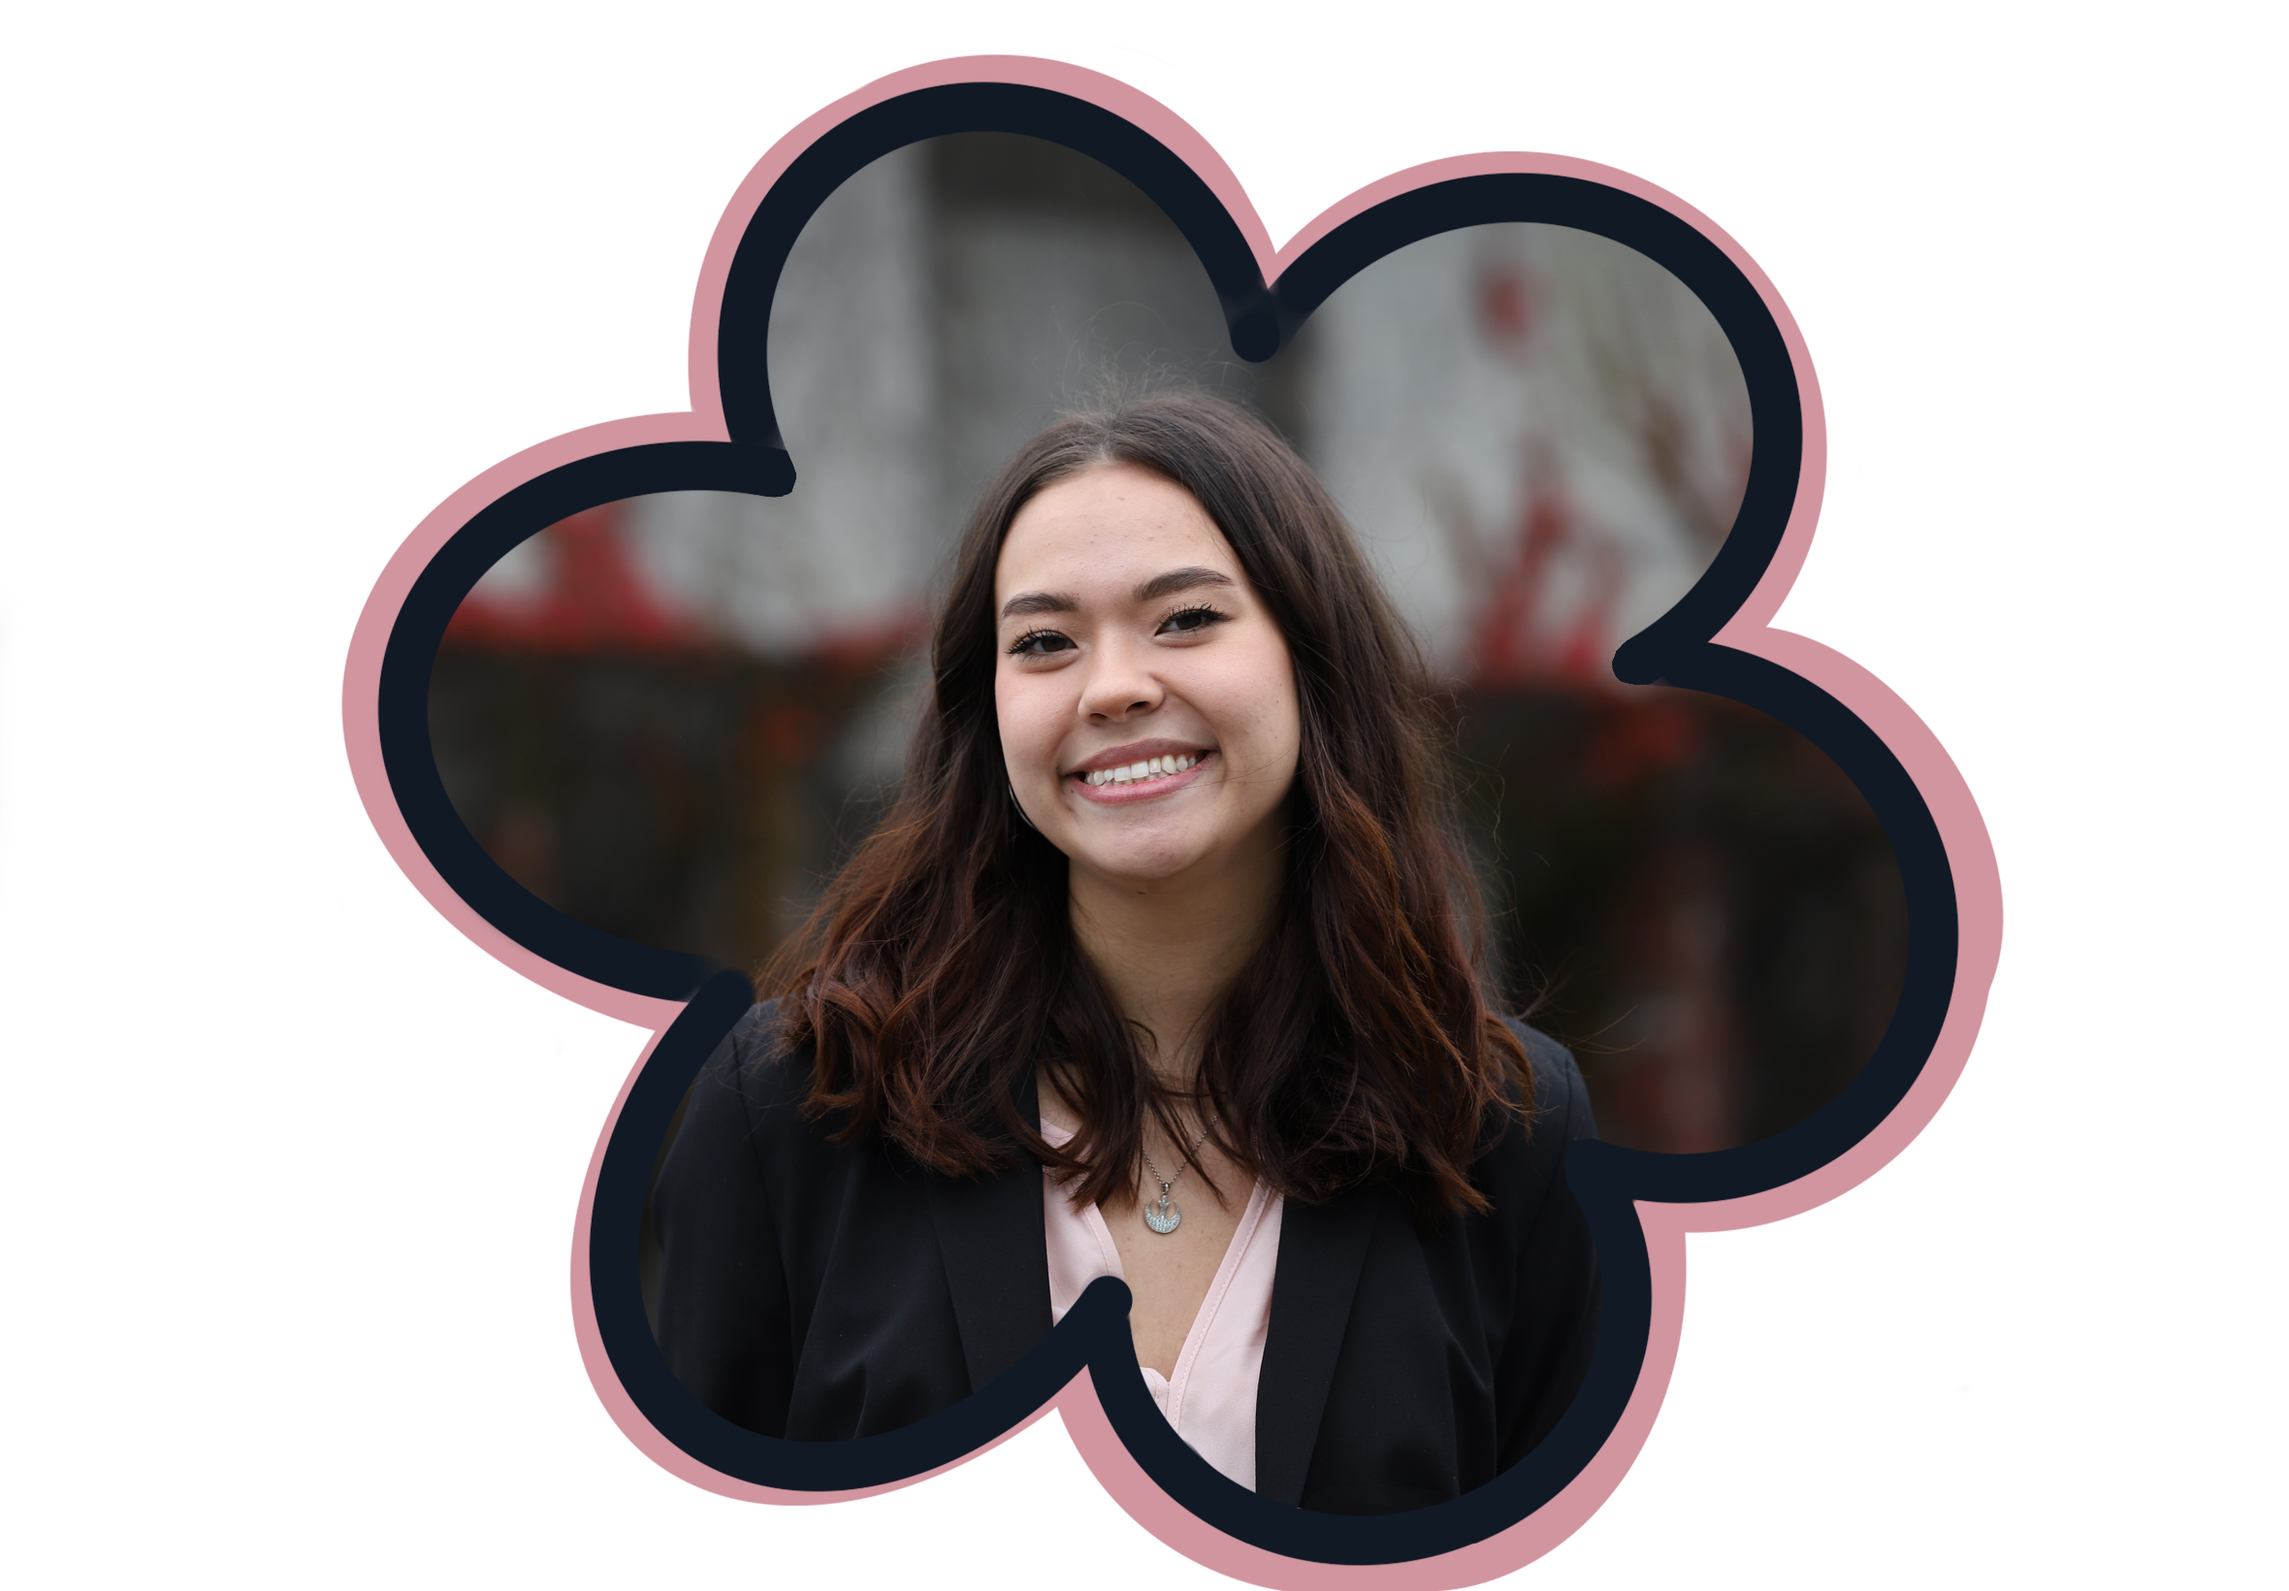
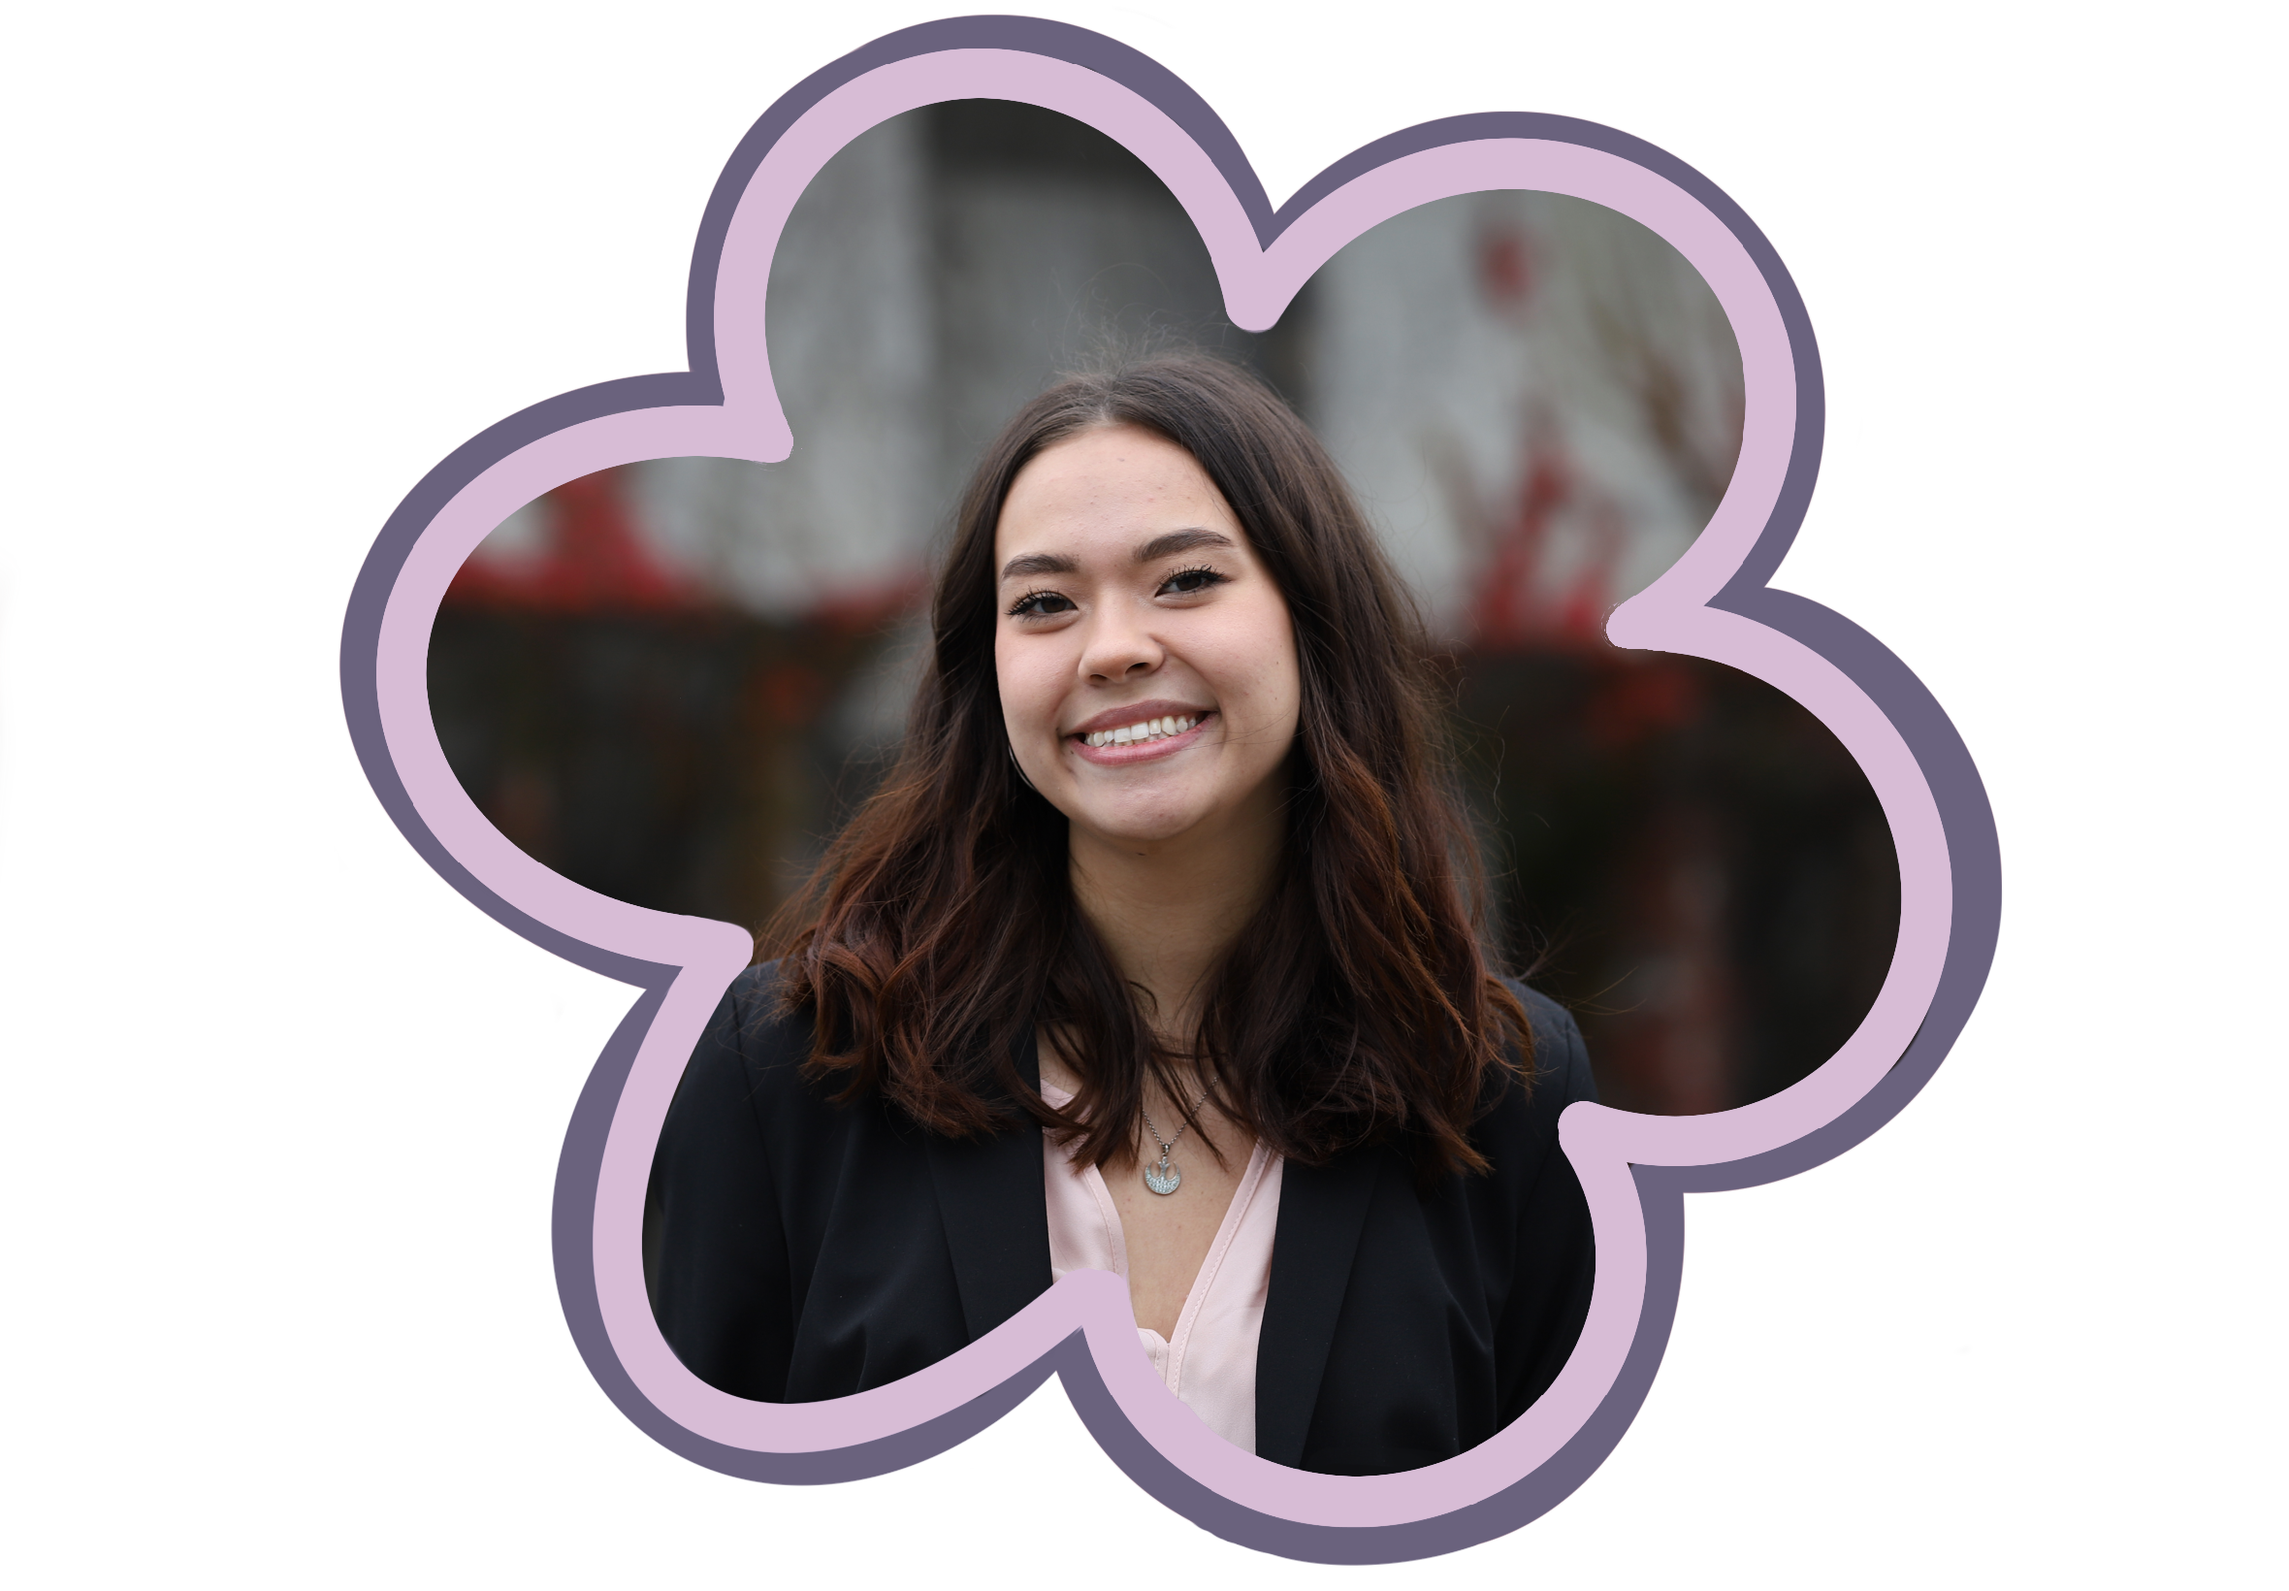
color and layout changes

Changed region(s): [[0.1237, 0.0, 0.897, 1.0]]

diff --git a/index.html b/index.html
@@ -44,7 +44,7 @@
       <div class="section__text">
         <p class="section__text__p1">Hiya, I'm</p>
         <h1 class="title">Sabrina Bailey</h1>
-        <p class="section__text__p2">CS Student and Cybersecurity enthusiast <br /> Throw kindness around like confetti!</p>
+        <p class="section__text__p2">CS student and Cybersecurity enthusiast <br /> Throw kindness around like confetti!<br />~</p>
         <div class="btn-container">
           <!-- <button
             class="btn btn-color-2"
@@ -106,10 +106,10 @@
           </div>
           <div class="text-container">
             <p>
-              Hello, I'm Sabrina Bailey, a 4th-year student at Simon Fraser University, majoring in Computing Science with a concentration in Artificial Intelligence. 
+              Hello, I'm Sabrina Bailey, a 4th-year student at Simon Fraser University, majoring in Computing Science with a concentration in Artificial Intelligence and Computer Vision. 
               My academic journey is driven by a passion for blending technology and teaching to innovate solutions that enhance the quality of everyday life. 
               By focusing on accessible and affordable technological advancements, I aim to make significant contributions that will benefit society.  
-              PLEASE NOTE THIS WEBSITE IS A WORK IN PROGRESS.
+              <br /> PLEASE NOTE THIS WEBSITE IS A WORK IN PROGRESS.
             </p>
           </div>
         </div>
@@ -147,18 +147,7 @@
                   class="icon"
                 />
                 <div>
-                  <h3>C++</h3>
-                  <p>Experienced</p>
-                </div>
-              </article>
-              <article>
-                <img
-                  src="./assets/checkmark.png"
-                  alt="Experience icon"
-                  class="icon"
-                />
-                <div>
-                  <h3>R</h3>
+                  <h3>C++ and C</h3>
                   <p>Intermediate</p>
                 </div>
               </article>
@@ -169,7 +158,18 @@
                   class="icon"
                 />
                 <div>
-                  <h3>SQL</h3>
+                  <h3>R and OCamL</h3>
+                  <p>Intermediate</p>
+                </div>
+              </article>
+              <article>
+                <img
+                  src="./assets/checkmark.png"
+                  alt="Experience icon"
+                  class="icon"
+                />
+                <div>
+                  <h3>SQL and Azure SQL</h3>
                   <p>Intermediate</p>
                 </div>
               </article>
@@ -202,7 +202,7 @@
                   class="icon"
                 />
                 <div>
-                  <h3>Azure</h3>
+                  <h3>Docker</h3>
                   <p>Intermediate</p>
                 </div>
               </article>

diff --git a/style.css b/style.css
@@ -9,7 +9,7 @@
 
 body {
   font-family: "Ubuntu", sans-serif;
-  background-color: #9EB1A9;
+  background-color: #C5C2DA;
 }
 
 html {
@@ -53,7 +53,7 @@ a {
 }
 
 a:hover {
-  color: #97575F;
+  color: gray;
   text-decoration: underline;
   text-underline-offset: 1rem;
   text-decoration-color: rgb(181, 181, 181);
@@ -423,7 +423,7 @@ article .icon {
   border-radius: 2rem;
   border: rgb(53, 53, 53) 0.1rem solid;
   border-color: rgb(163, 163, 163);
-  background: #97575F;
+  background: white;
   margin: 2rem auto;
   padding: 0.5rem;
 }
